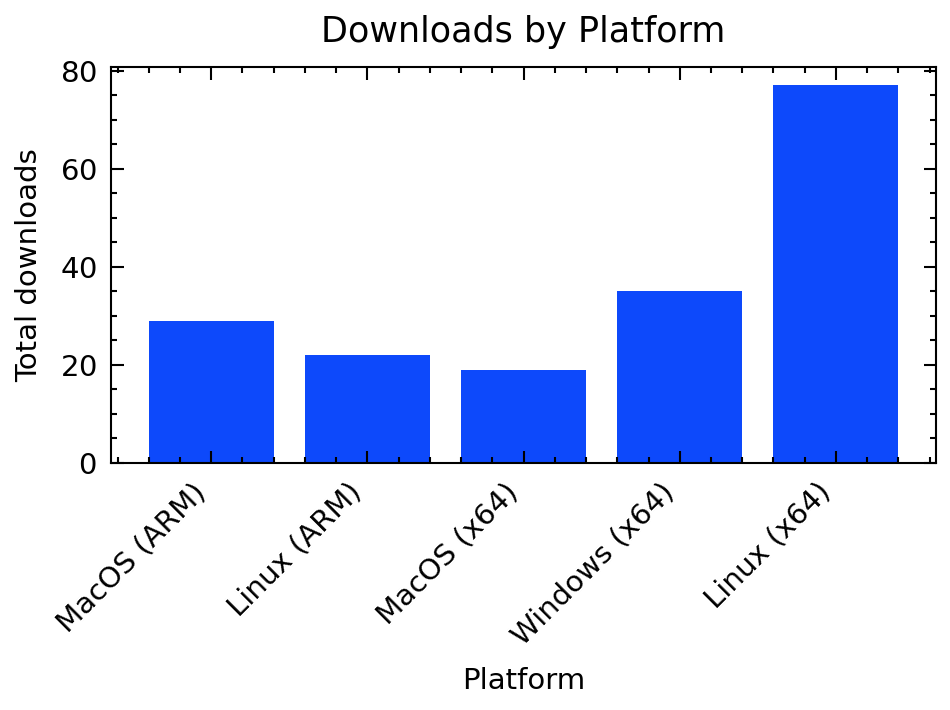
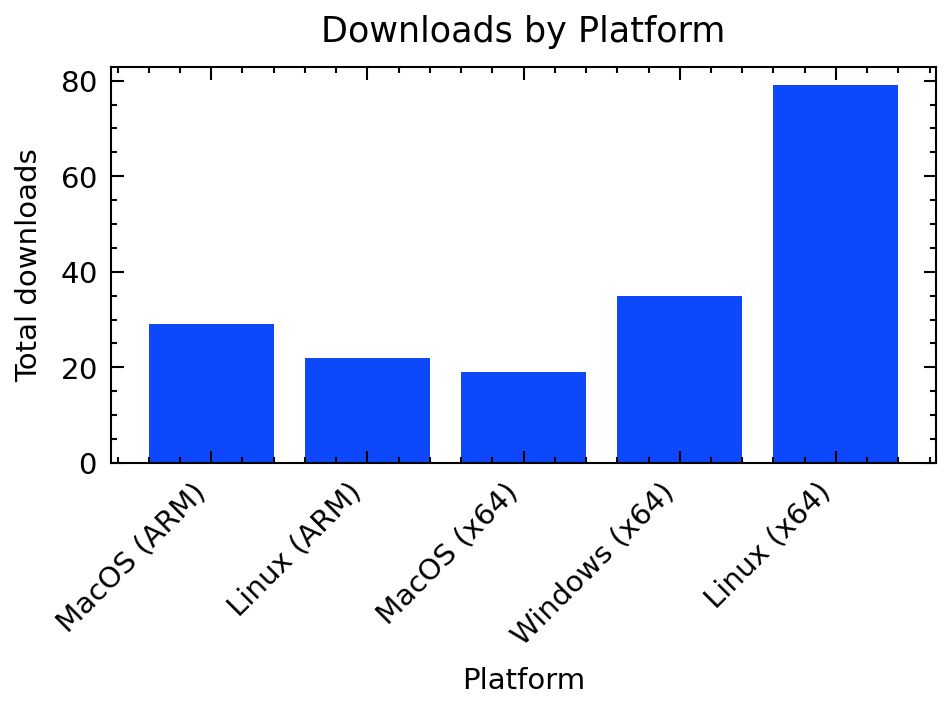
Updated Metrics data

diff --git a/README.md b/README.md
@@ -4,7 +4,7 @@
 SciWIn-Client helps user creating **Computational Workflows** in CWL. Detailed Information about SciWIn-Client can be found in the [GitHub Repository](https://github.com/fairagro/m4.4_sciwin_client). The Metrics shown below have been calculated using the GitHub API. Presentation is done via a CWL Workflow.
 
 ## Downloads by Version
-SciWIn-Client currently has about 182 overall downloads across all versions and operating systems. The lastest version v1.0.0 currently has 17 downloads.
+SciWIn-Client currently has about 184 overall downloads across all versions and operating systems. The lastest version v1.0.0 currently has 18 downloads.
 
 
 ![downloads by version](release.png)
@@ -12,12 +12,12 @@ SciWIn-Client currently has about 182 overall downloads across all versions and 
 
 | Version | Downloads |
 |---------|-----------|
-| v1.0.0 | 17|
+| v1.0.0 | 18|
 | v0.8.0 | 34|
 | v0.7.0 | 15|
 | v0.6.1 | 11|
 | v0.6.0 | 4|
-| v0.5.2 | 13|
+| v0.5.2 | 14|
 | v0.5.1 | 7|
 | v0.5.0 | 7|
 | v0.4.0 | 9|
@@ -27,7 +27,7 @@ SciWIn-Client currently has about 182 overall downloads across all versions and 
 
 
 ## Downloads by Operating System
-SciWIn-Client is used on all major operating systems. There are 99 downloads of the linux executable, 35 downloads of the Windows executable and 48 downloads of the Mac OS executable.
+SciWIn-Client is used on all major operating systems. There are 101 downloads of the linux executable, 35 downloads of the Windows executable and 48 downloads of the Mac OS executable.
 
 
 ![downloads by platform](platform.png)
@@ -39,7 +39,7 @@ SciWIn-Client is used on all major operating systems. There are 99 downloads of 
 | Linux (ARM) | 22|
 | MacOS (x64) | 19|
 | Windows (x64) | 35|
-| Linux (x64) | 77|
+| Linux (x64) | 79|
 
 
 ## Creating this Workflow
